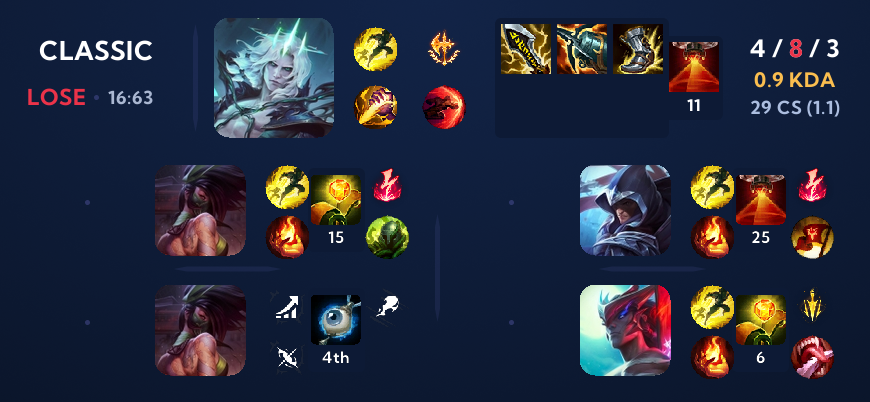
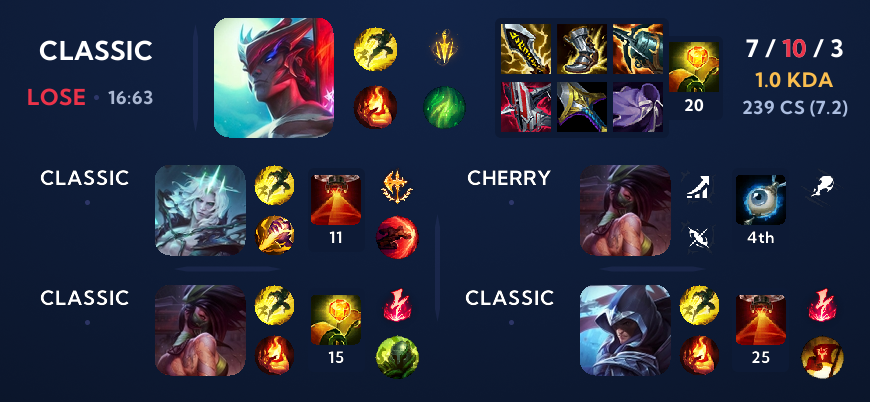
match history

diff --git a/src/utils/images/history.ts b/src/utils/images/history.ts
@@ -19,12 +19,12 @@ function getIcon(version: string, champion: string, size = 120) {
         .then(x => Image.decode(x))
 }
 
-function getSpell(version: string, spell: string) {
+function getSpell(version: string, spell: string, size = 44) {
     const url = `https://ddragon.leagueoflegends.com/cdn/${version}/img/spell/${Object.values(SummonerSpells).find(x => x.key === spell)?.id}.png`;
     return fetch(url)
         .then(x => x.arrayBuffer() as Promise<Buffer>)
         .then(x => Image.decode(x))
-        .then(x => x.resize(44, 44))
+        .then(x => x.resize(size, size))
 }
 
 function getItem(version: string, item: number) {
@@ -50,12 +50,12 @@ async function getAugment(augment: number) {
         .then(x => x.resize(44, 44))
 }
 
-async function getPerk(perk: number, isSecondary = false) {
+async function getPerk(perk: number, isSecondary = false, size = 50) {
     const baseURL = "https://raw.communitydragon.org/latest/plugins/rcp-be-lol-game-data/global/default"
     const perkJson = Perks.find(x => x.id === perk)
     if (!perkJson) {
         console.log(perk)
-        return new Image(50, 50)
+        return new Image(size, size)
     }
     const url = `${baseURL}/v1${perkJson?.iconPath.split('v1')[1]?.toLowerCase()}`
     if (isSecondary) { }
@@ -79,7 +79,7 @@ async function makeLabel(match: NonNullable<Awaited<ReturnType<SummonerMatches['
             const spells = await Promise.all([
                 participant.summoner1Id,
                 participant.summoner2Id
-            ].map(x => getSpell('13.24.1', x.toString())));
+            ].map(x => getSpell('13.24.1', x.toString(), 40)));
 
             // for (let i = 0; i < spells.length; i++) {
             //     const spell = spells[i]!
@@ -90,7 +90,7 @@ async function makeLabel(match: NonNullable<Awaited<ReturnType<SummonerMatches['
             const primaryRune = primary!.selections[0]!;
             const secondaryRune = secondary!.selections[0]!;
 
-            const perks = await Promise.all([getPerk(primaryRune.perk), getPerk(secondaryRune.perk, true)]);
+            const perks = await Promise.all([getPerk(primaryRune.perk, false, 40), getPerk(secondaryRune.perk, true, 40)]);
             // for (let i = 0; i < perks.length; i++) {
             //     const perk = perks[i]!
             //     canvas.composite(perk, 350, i * 50)
@@ -98,7 +98,7 @@ async function makeLabel(match: NonNullable<Awaited<ReturnType<SummonerMatches['
             const images = [...spells, ...perks]
             for (let i = 0; i < 4; i++) {
                 const image = images[i]!.cropCircle()
-                canvas.composite(image, i < 2 ? 265 : 365, (i % 2) * 50)
+                canvas.composite(image, i < 2 ? 254 : 375, (i % 2) * 50)
             }
             const visionScore = await Image.renderText(boldFont, 16, participant.visionScore!.toString())
             canvas.composite(visionScore, 336 - visionScore.width / 2, 62)
@@ -113,13 +113,19 @@ async function makeLabel(match: NonNullable<Awaited<ReturnType<SummonerMatches['
 
             for (let i = 0; i < augmentsIcons.length; i++) {
                 const perk = augmentsIcons[i]!
-                canvas.composite(perk, i < 2 ? 265 : 365, (i % 2) * 50)
+                canvas.composite(perk, i < 2 ? 251 : 375, (i % 2) * 50)
             }
         } break
     }
 
     const ward = (await getItem('13.24.1', participant.item6)).roundCorners(6);
     canvas.composite(ward, 311, 10)
+
+    const gameMode = await Image.renderText(boldFont, 20, match.info.gameMode);
+    canvas.composite(gameMode, 85 - gameMode.width / 2);
+
+    // const winOrDefeat = await Image.renderText(boldFont, 22, participant.win ? 'WIN' : 'LOSE', participant.win ? 0x93F9B9ff : 0xEB3349ff);
+    // canvas.composite(winOrDefeat, 85 - winOrDefeat.width / 2, 50);
 
     canvas.composite(icon, 155);
     return canvas;
@@ -136,8 +142,8 @@ export async function makeMatchHistory(
     const participant = firstMatch.info.participants.find(x => x.puuid === summoner.puuid)!
     const icon = await getIcon('13.24.1', participant.championId.toString())
 
-    const text = await Image.renderText(boldFont, 26, firstMatch.info.gameMode);
-    canvas.composite(text, 96 - text.width / 2, 34);
+    const gameMode = await Image.renderText(boldFont, 26, firstMatch.info.gameMode);
+    canvas.composite(gameMode, 96 - gameMode.width / 2, 34);
 
     const winOrDefeat = await Image.renderText(boldFont, 22, participant.win ? 'WIN' : 'LOSE', participant.win ? 0x93F9B9ff : 0xEB3349ff);
     canvas.composite(winOrDefeat, 85 - winOrDefeat.width, 83);
